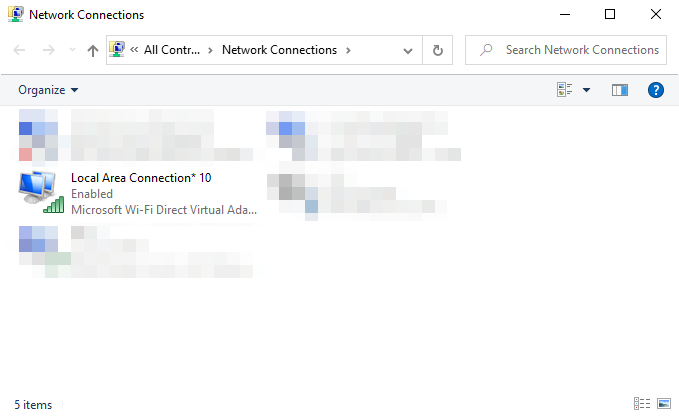
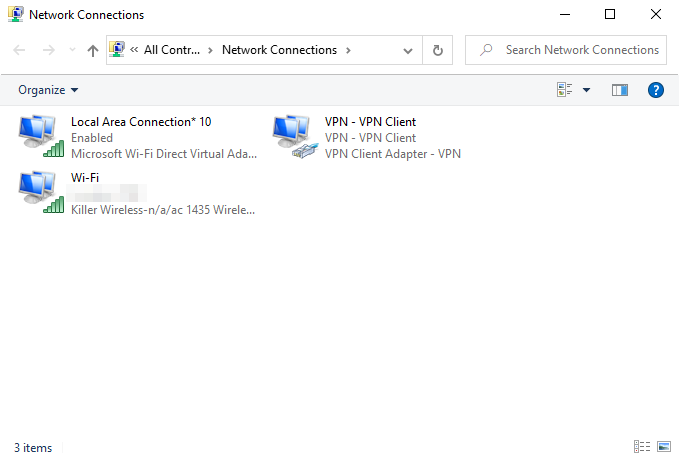
corrected a BIG mistake on the guide, now it should be correct

diff --git a/howtodqx/vpn.md b/howtodqx/vpn.md
@@ -55,21 +55,25 @@ Go to "Mobile hotspot"
 
 ![](vpn3.png)
 
-Here, before turning mobile hotspot on, I recommand you to click on "Change adapter options" first, then turn mobile hotspot on. 
-
-Once you turned the hotspot on, a new connection called something like "Local Area Connection* \[number\]" will appear in "Change adapter options".
+Turn the mobile hotspot on, then click on "Change adapter options". 
 
 ![](vpn4.png)
 
-Right click on the new connection, then click on "Properties". 
+The number and name of connections may be different on your computer. Here on my screen you can see three connections:
+
+- Wi-Fi, my regular Wi-Fi connection
+- VPN - VPN Client, my VPN connection
+- Local Area Connection* 10, the connection that corresponds to the hotspot.
+
+You need to find your VPN connection on that list, right click on it' then click on "Properties". 
 
 On the new window go to the "Sharing" tab.
 
 ![](vpn5.png)
 
-Here, check "Allow other network users to connect through this computer's Internet connection", and then under "Home networking connection" select the connection corresponding to the way you'll connect your device. If you've been following the guide until now, it should be "Wi-Fi".
+Here, check "Allow other network users to connect through this computer's Internet connection", and then under "Home networking connection" select the hotspot connection (in my case it's "Local Area Connection* 10" but it may have a different name on your computer).
 
-Once this is done, you can connect your device to your computer the same way you'd connect your device to a regular router.
+Once this is done, you can connect your device to your computer the same way you'd connect your device to a regular router using the Network name and Network password found under the "Mobile hotspot" settings.
 
 ## OS X
 I didn't test it myself but other people say that [this guide](https://www.expressvpn.com/support/vpn-setup/share-vpn-connection-mac/#setup) works. You don't have to use ExpressVPN. Any other VPN should work the same.
